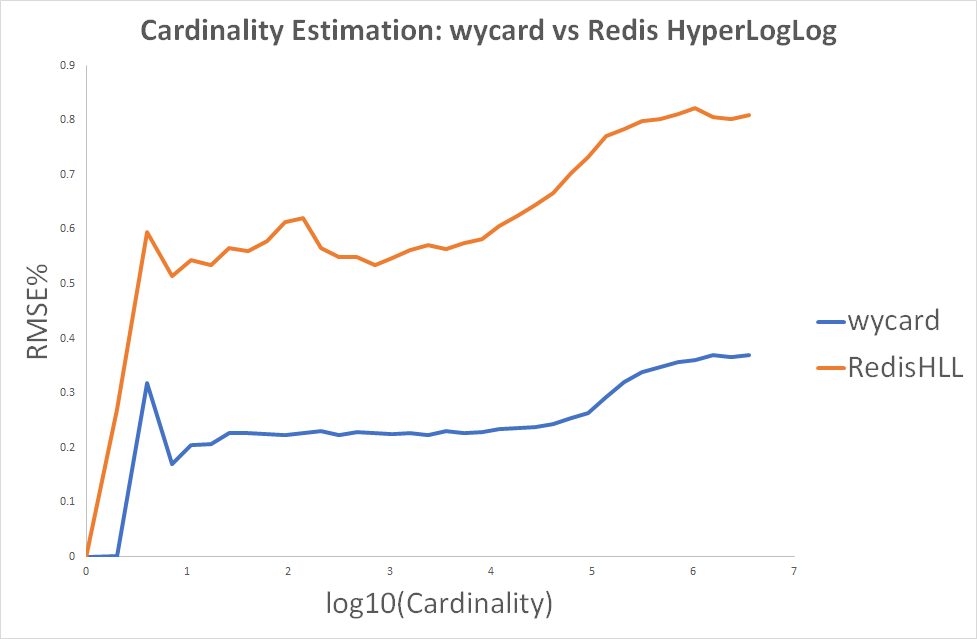
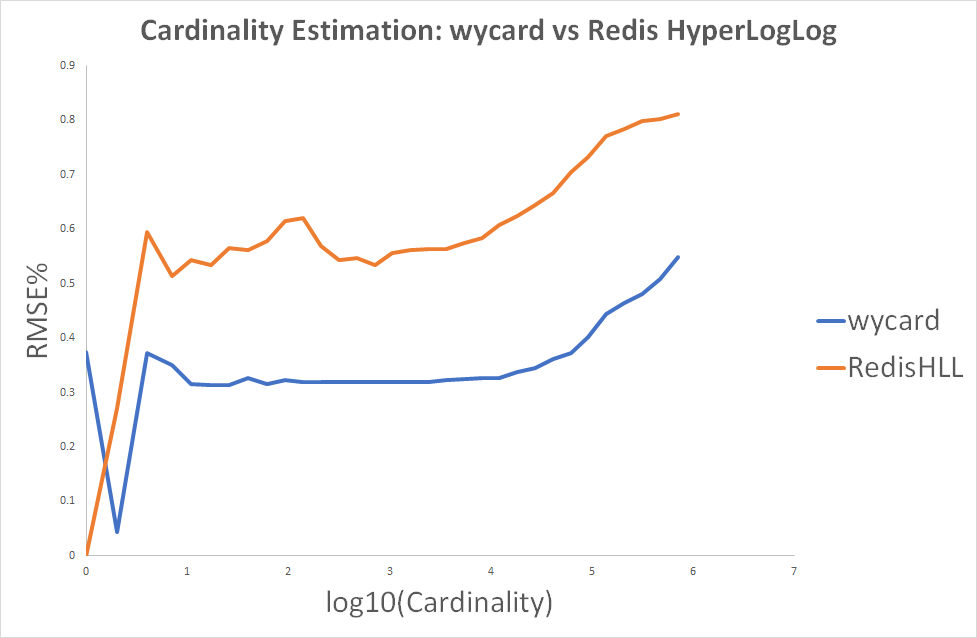
Add files via upload

diff --git a/wycard.h b/wycard.h
@@ -17,14 +17,19 @@
 #include	"wyhash.h"
 #include	<math.h>
 struct	wycard{	uint8_t	*data,	bits,	layers;	};
+
 static	inline	void	wycard_alloc(wycard	*s,	uint8_t	bits,	uint8_t	layers){	
 	s->bits=bits;	
 	s->layers=layers;	
 	s->data=(uint8_t*)calloc(((uint64_t)layers)<<bits,1);	
 }
-static	inline	void	wycard_free(wycard	*s){	free(s->data);	s->data=NULL;	s->bits=s->layers=0;	}
+
+static	inline	void	wycard_free(wycard	*s){	free(s->data);	}
+
 static	inline	uint64_t	wycard_capacity(wycard	*s){	return	1ull<<(s->bits+s->layers+3);	}
+
 static	inline	void	wycard_clear(wycard	*s){	memset(s->data,0,((uint64_t)s->layers)<<s->bits);	}
+
 static	inline	void	wycard_add(wycard	*s,	void	*item,	uint64_t	item_size){
 	uint64_t	h=wyhash(item,item_size,0,_wyp);
 	uint64_t	lz=__builtin_clzll(h);
@@ -32,10 +37,11 @@ static	inline	void	wycard_add(wycard	*s,	void	*item,	uint64_t	item_size){
 	h&=(8ull<<s->bits)-1;
 	s->data[(lz<<s->bits)+(h>>3)]|=1u<<(h&7);
 }
+
 static	inline	double	wycard_solve(wycard	*s,	uint64_t	*m){
 	double	n=8ull<<s->bits,	p[64]={},	N=(s->bits+s->layers+6)*M_LN2;
 	for(uint8_t	l=0;	l<s->layers;	l++)	p[l]=l==s->layers-1?1.0/n/(1ull<<l):0.5/n/(1ull<<l);
-	for(size_t	it=0;	it<100;	it++){	
+	for(size_t	it=0;	it<256;	it++){	
 		double	dn=0,	dnn=0,	en=expf(N);
 		for(uint8_t	l=0;	l<s->layers;	l++){	
 			double	ep=en*p[l],	enp=expf(-ep);
@@ -47,6 +53,7 @@ static	inline	double	wycard_solve(wycard	*s,	uint64_t	*m){
 	}
 	return	expf(N);
 }
+
 static	inline	double	wycard_cardinality(wycard	*s){
 	uint64_t	m[64]={};	bool	empty=true,	full=true;
 	for(uint64_t	l=0;	l<s->layers;	l++){
